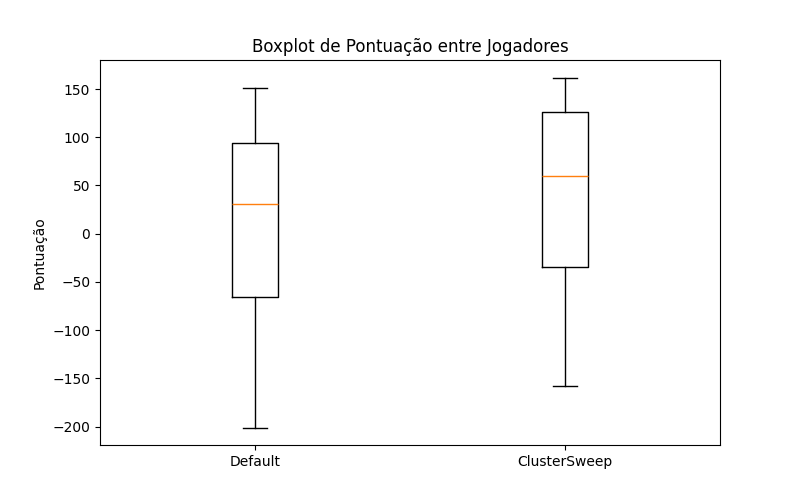
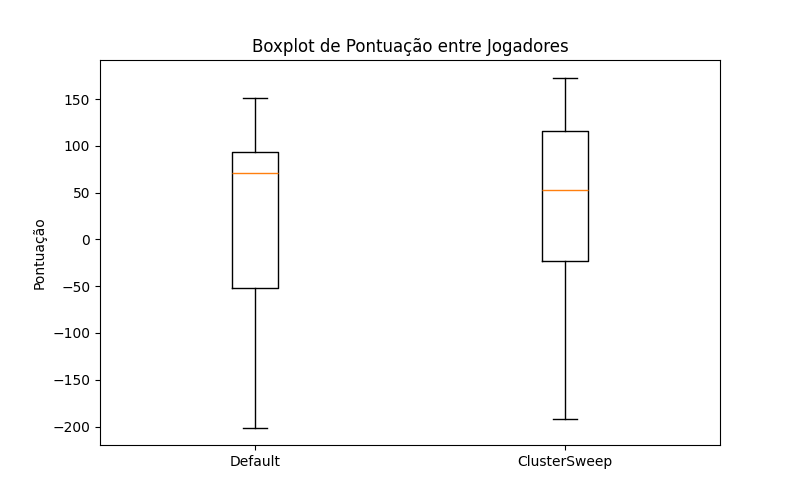
graficos para apresentação

diff --git a/main.py b/main.py
@@ -134,134 +134,6 @@ class ClusterSweepPlayer(BasePlayer):
                 else:
                     return None
 
-class BestPlayer(BasePlayer):
-    def __init__(self, position):
-        super().__init__(position)
-        self.next_target = None
-        self.collection_radius = 6  # Raio para coleta prioritária
-        self.delivery_radius = 8    # Raio para entrega prioritária
-
-    def get_remaining_steps(self, goal, current_steps):
-        prioridade = goal["priority"]
-        idade = current_steps - goal["created_at"]   
-        return prioridade - idade
-
-    def escolher_alvo(self, world, current_steps):
-        sx, sy = self.position
-
-        # Se já tem próximo alvo programado, segue nele
-        if self.next_target:
-            target = self.next_target
-            self.next_target = None
-            return target
-
-        # --- COLETA DE PACOTES ---
-        if self.cargo == 0 and world.packages:
-            # Pega o pacote mais próximo dentro do raio de coleta
-            close_pkgs = [
-                pkg for pkg in world.packages
-                if abs(pkg[0]-sx) + abs(pkg[1]-sy) <= self.collection_radius
-            ]
-            
-            if close_pkgs:
-                return min(close_pkgs, key=lambda pkg: abs(pkg[0]-sx) + abs(pkg[1]-sy))
-            else:
-                # Se não há pacotes próximos, pega o mais próximo geral
-                return min(world.packages, key=lambda pkg: abs(pkg[0]-sx) + abs(pkg[1]-sy))
-        
-        # Se já está carregando, só pega outro pacote se estiver muito perto (≤3 blocos)
-        elif self.cargo >= 1 and world.packages:
-            very_close_pkgs = [
-                pkg for pkg in world.packages
-                if abs(pkg[0]-sx) + abs(pkg[1]-sy) <= 10
-            ]
-            if very_close_pkgs:
-                return min(very_close_pkgs, key=lambda pkg: abs(pkg[0]-sx) + abs(pkg[1]-sy))
-
-        # --- ENTREGA DE PACOTES ---
-        if self.cargo > 0 and world.goals:
-            # 1) Verifica se há metas muito próximas (dentro do raio de entrega)
-            nearby_goals = [
-                g for g in world.goals
-                if abs(g["pos"][0] - sx) + abs(g["pos"][1] - sy) <= self.delivery_radius
-            ]
-            
-            if nearby_goals:
-                # Entrega primeiro as mais próximas, considerando também o prazo
-                best_nearby = min(nearby_goals, key=lambda g: 
-                    (abs(g["pos"][0]-sx) + abs(g["pos"][1]-sy)) * 2 - 
-                    self.get_remaining_steps(g, current_steps))
-                return best_nearby["pos"]
-
-            # 2) Se não há metas próximas, escolhe com base no custo-benefício distância x prazo
-            return self._choose_best_goal(world, current_steps, sx, sy)
-
-        return None
-
-    def _choose_best_goal(self, world, current_steps, sx, sy):
-        best = None
-        best_score = float('-inf')
-        
-        for goal in world.goals:
-            gx, gy = goal["pos"]
-            distancia = abs(gx - sx) + abs(gy - sy)
-            tempo_restante = self.get_remaining_steps(goal, current_steps)
-            
-            # Fórmula melhorada: balanceia melhor distância e prazo
-            if tempo_restante <= 0:  # Já está atrasado - máxima prioridade
-                score = 10000 - distancia  # Prioriza os atrasados mais próximos
-            else:
-                # Calcula um score que considera tanto a urgência quanto a distância
-                # Quanto menor o tempo restante e menor a distância, maior o score
-                score = (100 / max(1, distancia)) * 3 + (tempo_restante * 2)
-            
-            if score > best_score:
-                best_score = score
-                best = goal["pos"]
-                
-        return best
-
-# class ClusterSweepPlayer(BestPlayer):
-#     def __init__(self, position):
-#         super().__init__(position)
-#         self.FORCE_SWEEP_RADIUS = 6
-
-#     def _safe_path_length(self, a, b):
-#         return abs(a[0] - b[0]) + abs(a[1] - b[1])
-
-#     def _overdue_count_at(self, world, steps_at_time):
-#         return sum(
-#             1 for g in world.goals
-#             if (steps_at_time - g["created_at"]) > g["priority"]
-#         )
-
-#     def _forced_sweep_next(self, world, current_pos):
-#         if not world.packages:
-#             return None
-#         cand = [
-#             (self._safe_path_length(current_pos, p), p)
-#             for p in world.packages
-#             if self._safe_path_length(current_pos, p) <= self.FORCE_SWEEP_RADIUS
-#         ]
-#         return min(cand, key=lambda t: t[0])[1] if cand else None
-
-#     def _forced_sweep_decide(self, world, current_steps):
-#         # Só faz a varredura forçada se não houver entregas atrasadas
-#         if self._overdue_count_at(world, current_steps) > 0:
-#             return None
-#         return self._forced_sweep_next(world, self.position)
-
-#     def escolher_alvo(self, world, current_steps):
-#         # Verifica primeiro se deve fazer uma varredura forçada
-#         sweep_target = self._forced_sweep_decide(world, current_steps)
-#         if sweep_target:
-#             return sweep_target
-
-#         # Caso contrário, usa a lógica melhorada do BestPlayer
-#         return super().escolher_alvo(world, current_steps)
-
-
-    
 # ==========================
 # CLASSE WORLD (MUNDO)
 # ==========================
@@ -640,10 +512,12 @@ class Maze:
         pygame.quit()
 
 
-import pandas as pd
+import pandas as pd 
 import matplotlib
 matplotlib.use('Agg')  # evita problemas em ambientes sem GUI
 import matplotlib.pyplot as plt
+import seaborn as sns
+import numpy as np
 
 class Simulator:
     def __init__(self, player_class, num_runs=40, seed=None):
@@ -693,8 +567,163 @@ class Simulator:
         return desc
 
     # ==========================
-    # Gráficos de Comparação
+    # NOVOS GRÁFICOS
     # ==========================
+    @staticmethod
+    def compare_boxplot_with_points(csv_files, labels, column, ylabel, title, save_as):
+        dfs = [pd.read_csv(f).assign(Jogador=label) for f, label in zip(csv_files, labels)]
+        df_all = pd.concat(dfs)
+
+        plt.figure(figsize=(8,5))
+        sns.boxplot(data=df_all, x="Jogador", y=column, showfliers=False)
+        sns.stripplot(data=df_all, x="Jogador", y=column, color="black", alpha=0.5)
+        plt.ylabel(ylabel)
+        plt.title(title)
+        plt.savefig(save_as)
+        plt.close()
+
+    @staticmethod
+    def compare_violinplot(csv_files, labels, column, ylabel, title, save_as):
+        dfs = [pd.read_csv(f).assign(Jogador=label) for f, label in zip(csv_files, labels)]
+        df_all = pd.concat(dfs)
+
+        plt.figure(figsize=(8,5))
+        sns.violinplot(data=df_all, x="Jogador", y=column, inner="quartile")
+        plt.ylabel(ylabel)
+        plt.title(title)
+        plt.savefig(save_as)
+        plt.close()
+
+    @staticmethod
+    def compare_line_per_seed(csv_files, labels, column, ylabel, title, save_as):
+        df1, df2 = [pd.read_csv(f) for f in csv_files]
+        plt.figure(figsize=(10,5))
+        plt.plot(df1["run"], df1[column], marker="o", label=labels[0])
+        plt.plot(df2["run"], df2[column], marker="s", label=labels[1])
+        plt.xlabel("Execução (seed)")
+        plt.ylabel(ylabel)
+        plt.title(title)
+        plt.legend()
+        plt.savefig(save_as)
+        plt.close()
+
+    @staticmethod
+    def compare_difference_barplot(csv_files, labels, column, ylabel, title, save_as):
+        df1, df2 = [pd.read_csv(f) for f in csv_files]
+        merged = pd.merge(df1, df2, on="run", suffixes=(f"_{labels[0]}", f"_{labels[1]}"))
+        merged["diff"] = merged[f"{column}_{labels[1]}"] - merged[f"{column}_{labels[0]}"]
+
+        plt.figure(figsize=(10,5))
+        plt.bar(merged["run"], merged["diff"], color=np.where(merged["diff"]>=0, "green", "red"))
+        plt.axhline(0, color="black", linestyle="--")
+        plt.xlabel("Execução (seed)")
+        plt.ylabel(f"Diferença de {ylabel} ({labels[1]} - {labels[0]})")
+        plt.title(title)
+        plt.savefig(save_as)
+        plt.close()
+
+    @staticmethod
+    def compare_histograms(csv_files, labels, column, xlabel, title, save_as):
+        """
+        Plota histogramas sobrepostos (mesmos bins) para os arquivos CSV informados.
+        Mantém a assinatura que seu código chama: compare_histograms(csv_files, labels, column, ...)
+        """
+        # certifique-se de ter importado: import numpy as np, import pandas as pd, import matplotlib.pyplot as plt
+        dfs = [pd.read_csv(f) for f in csv_files]
+
+        # se a coluna não existir em algum CSV, avisa e retorna
+        for i, df in enumerate(dfs):
+            if column not in df.columns:
+                raise ValueError(f"Coluna '{column}' não encontrada no arquivo {csv_files[i]}")
+
+        # calcula bins comuns
+        col_min = min(df[column].min() for df in dfs)
+        col_max = max(df[column].max() for df in dfs)
+        if col_min == col_max:
+            # caso todos tenham o mesmo valor, cria uma pequena faixa para o hist
+            col_min -= 0.5
+            col_max += 0.5
+        bins = np.linspace(col_min, col_max, 12)  # 11 intervals (ajustável)
+
+        plt.figure(figsize=(8,5))
+        for df, label in zip(dfs, labels):
+            plt.hist(df[column], bins=bins, alpha=0.5, label=label, edgecolor='black')
+        plt.xlabel(xlabel)
+        plt.ylabel("Frequência")
+        plt.title(title)
+        plt.legend()
+        plt.tight_layout()
+        plt.savefig(save_as)
+        plt.close()
+
+    @staticmethod
+    def compare_histograms(csv_files, labels, column, xlabel, title, save_as):
+        dfs = [pd.read_csv(f) for f in csv_files]
+        plt.figure(figsize=(8,5))
+        for df, label in zip(dfs, labels):
+            plt.hist(df[column], bins=10, alpha=0.5, label=label)
+        plt.xlabel(xlabel)
+        plt.ylabel("Frequência")
+        plt.title(title)
+        plt.legend()
+        plt.savefig(save_as)
+        plt.close()
+
+    @staticmethod
+    def compare_boxplot(csv_files, labels, column, ylabel, title, save_as):
+        dfs = [pd.read_csv(f) for f in csv_files]
+        data = [df[column] for df in dfs]
+        plt.figure(figsize=(8,5))
+        plt.boxplot(data, labels=labels)
+        plt.ylabel(ylabel)
+        plt.title(title)
+        plt.savefig(save_as)
+        plt.close()
+
+    @staticmethod
+    def compare_seed_scatter(csv_files, labels, save_as):
+        df1, df2 = [pd.read_csv(f) for f in csv_files]
+        merged = pd.merge(df1, df2, on="run", suffixes=(f"_{labels[0]}", f"_{labels[1]}"))
+
+        plt.figure(figsize=(6,6))
+        plt.scatter(merged[f"score_{labels[0]}"], merged[f"score_{labels[1]}"], alpha=0.7)
+        plt.plot([merged[f"score_{labels[0]}"].min(), merged[f"score_{labels[0]}"].max()],
+                 [merged[f"score_{labels[0]}"].min(), merged[f"score_{labels[0]}"].max()],
+                 color="red", linestyle="--", label="y=x")
+        plt.xlabel(f"Pontuação {labels[0]}")
+        plt.ylabel(f"Pontuação {labels[1]}")
+        plt.title("Comparação Pareada por Seed")
+        plt.legend()
+        plt.savefig(save_as)
+        plt.close()
+
+    @staticmethod
+    def compare_deliveries_barplot(csv_files, labels, save_as):
+        dfs = [pd.read_csv(f) for f in csv_files]
+        means = [df["deliveries"].mean() for df in dfs]
+
+        plt.figure(figsize=(6,5))
+        plt.bar(labels, means, color=["skyblue", "orange"])
+        plt.ylabel("Entregas Médias")
+        plt.title("Número Médio de Entregas por Jogador")
+        plt.savefig(save_as)
+        plt.close()
+
+    @staticmethod
+    def compare_difference_histogram(csv_files, labels, column, ylabel, title, save_as):
+        df1, df2 = [pd.read_csv(f) for f in csv_files]
+        merged = pd.merge(df1, df2, on="run", suffixes=(f"_{labels[0]}", f"_{labels[1]}"))
+        merged["diff"] = merged[f"{column}_{labels[1]}"] - merged[f"{column}_{labels[0]}"]
+
+        plt.figure(figsize=(8,5))
+        plt.hist(merged["diff"], bins=10, alpha=0.7, color="purple")
+        plt.axvline(0, color="black", linestyle="--")
+        plt.xlabel(f"Diferença de {ylabel} ({labels[1]} - {labels[0]})")
+        plt.ylabel("Frequência")
+        plt.title(title)
+        plt.savefig(save_as)
+        plt.close()
+    
     @staticmethod
     def compare_histograms(csv_files, labels, column, xlabel, title, save_as):
         dfs = [pd.read_csv(f) for f in csv_files]
@@ -732,22 +761,70 @@ class Simulator:
         plt.savefig(save_as)
         plt.close()
 
+
+
 # ==========================
 # MAIN
 # ==========================
 if __name__ == "__main__":
     # Rodar simulações
-    sim_default = Simulator(DefaultPlayer, num_runs=24, seed=0)
+    sim_default = Simulator(DefaultPlayer, num_runs=40, seed=0)
     csv_default = "default_results.csv"
     sim_default.run(output_csv=csv_default)
 
-    sim_cluster = Simulator(ClusterSweepPlayer, num_runs=24, seed=0)
+    sim_cluster = Simulator(ClusterSweepPlayer, num_runs=40, seed=0)
     csv_cluster = "cluster_results.csv"
     sim_cluster.run(output_csv=csv_cluster)
 
     # Estatísticas descritivas
     Simulator.summary_stats(csv_default, "Default")
     Simulator.summary_stats(csv_cluster, "ClusterSweep")
+
+    # 🔹 Novos gráficos úteis
+    Simulator.compare_boxplot_with_points(
+        [csv_default, csv_cluster],
+        ["Default", "ClusterSweep"],
+        column="score",
+        ylabel="Pontuação",
+        title="Distribuição de Pontuação com Pontos Individuais",
+        save_as="comparison_boxplot_points.png"
+    )
+
+    Simulator.compare_violinplot(
+        [csv_default, csv_cluster],
+        ["Default", "ClusterSweep"],
+        column="score",
+        ylabel="Pontuação",
+        title="Distribuição de Pontuação (Violin Plot)",
+        save_as="comparison_violinplot.png"
+    )
+
+    Simulator.compare_line_per_seed(
+        [csv_default, csv_cluster],
+        ["Default", "ClusterSweep"],
+        column="score",
+        ylabel="Pontuação",
+        title="Pontuação por Execução (Seed)",
+        save_as="comparison_line_per_seed.png"
+    )
+
+    Simulator.compare_difference_barplot(
+        [csv_default, csv_cluster],
+        ["Default", "ClusterSweep"],
+        column="score",
+        ylabel="Pontuação",
+        title="Diferença de Pontuação por Execução",
+        save_as="comparison_difference_barplot.png"
+    )
+
+    Simulator.compare_difference_histogram(
+        [csv_default, csv_cluster],
+        ["Default", "ClusterSweep"],
+        column="score",
+        ylabel="Pontuação",
+        title="Histograma das Diferenças de Pontuação",
+        save_as="comparison_difference_histogram.png"
+    )
 
     # Comparações gráficas
     Simulator.compare_histograms(
@@ -791,6 +868,7 @@ if __name__ == "__main__":
         ["Default", "ClusterSweep"],
         save_as="comparison_score_vs_steps.png"
     )
+
 
 
     # parser = argparse.ArgumentParser(
